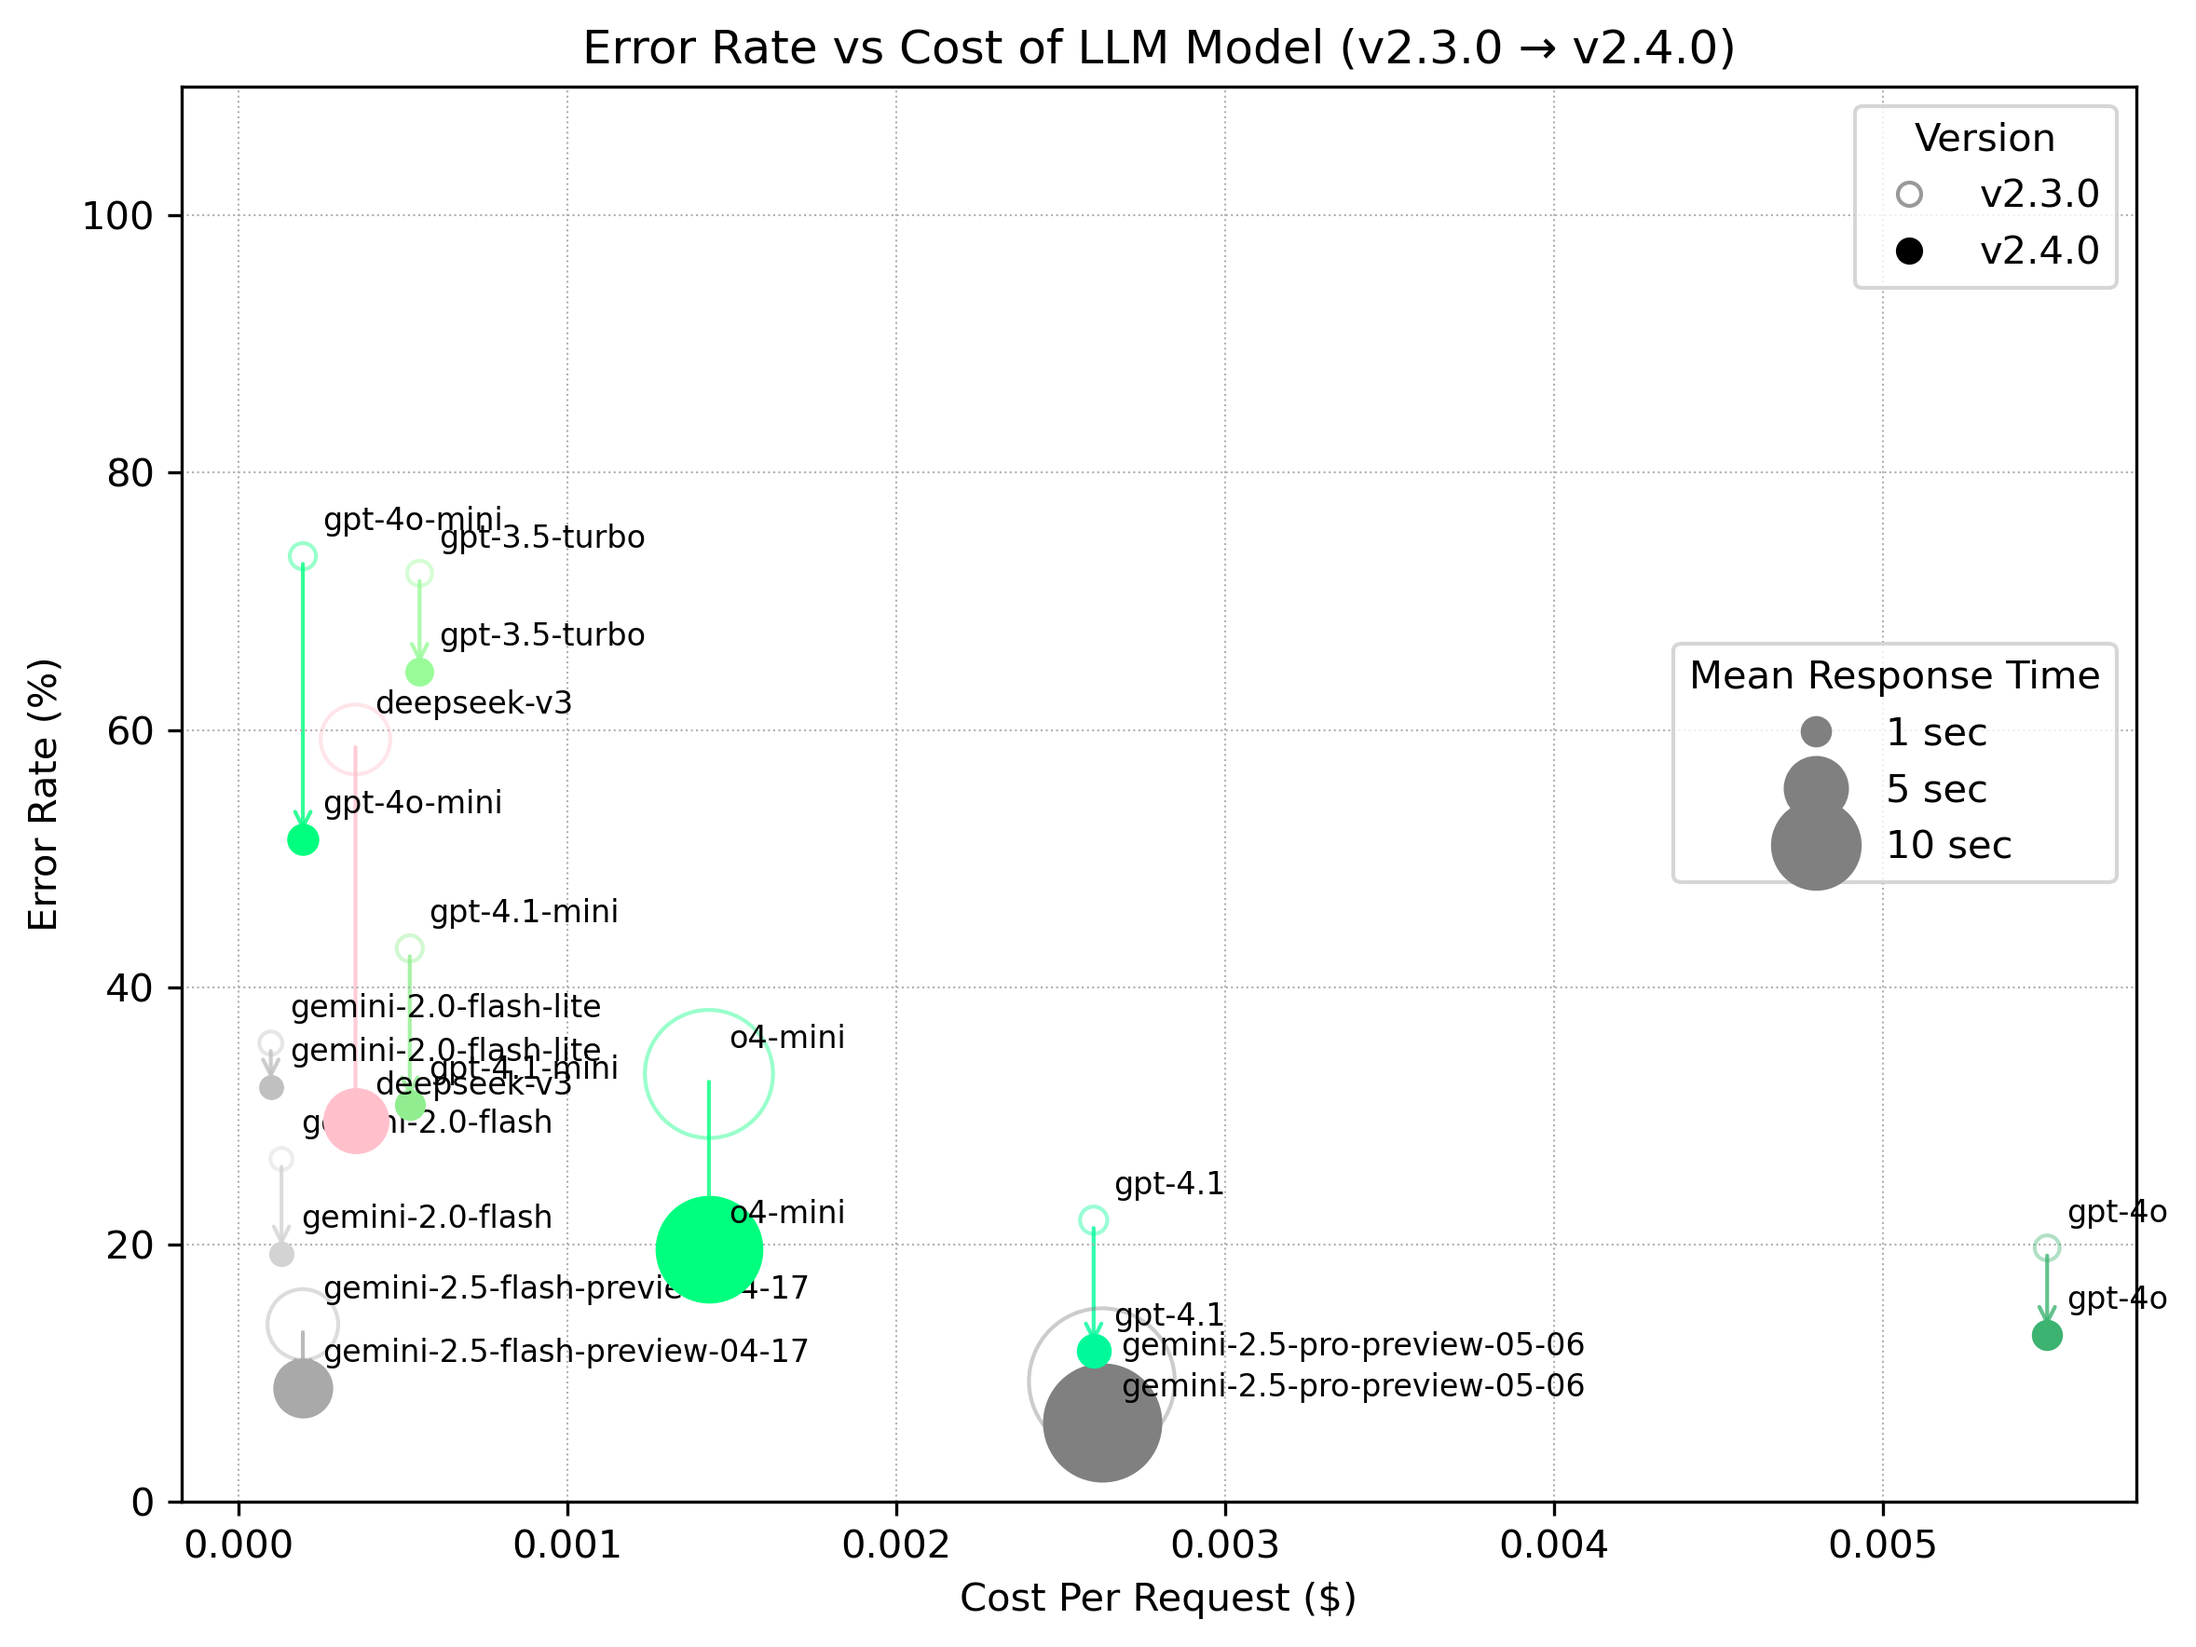
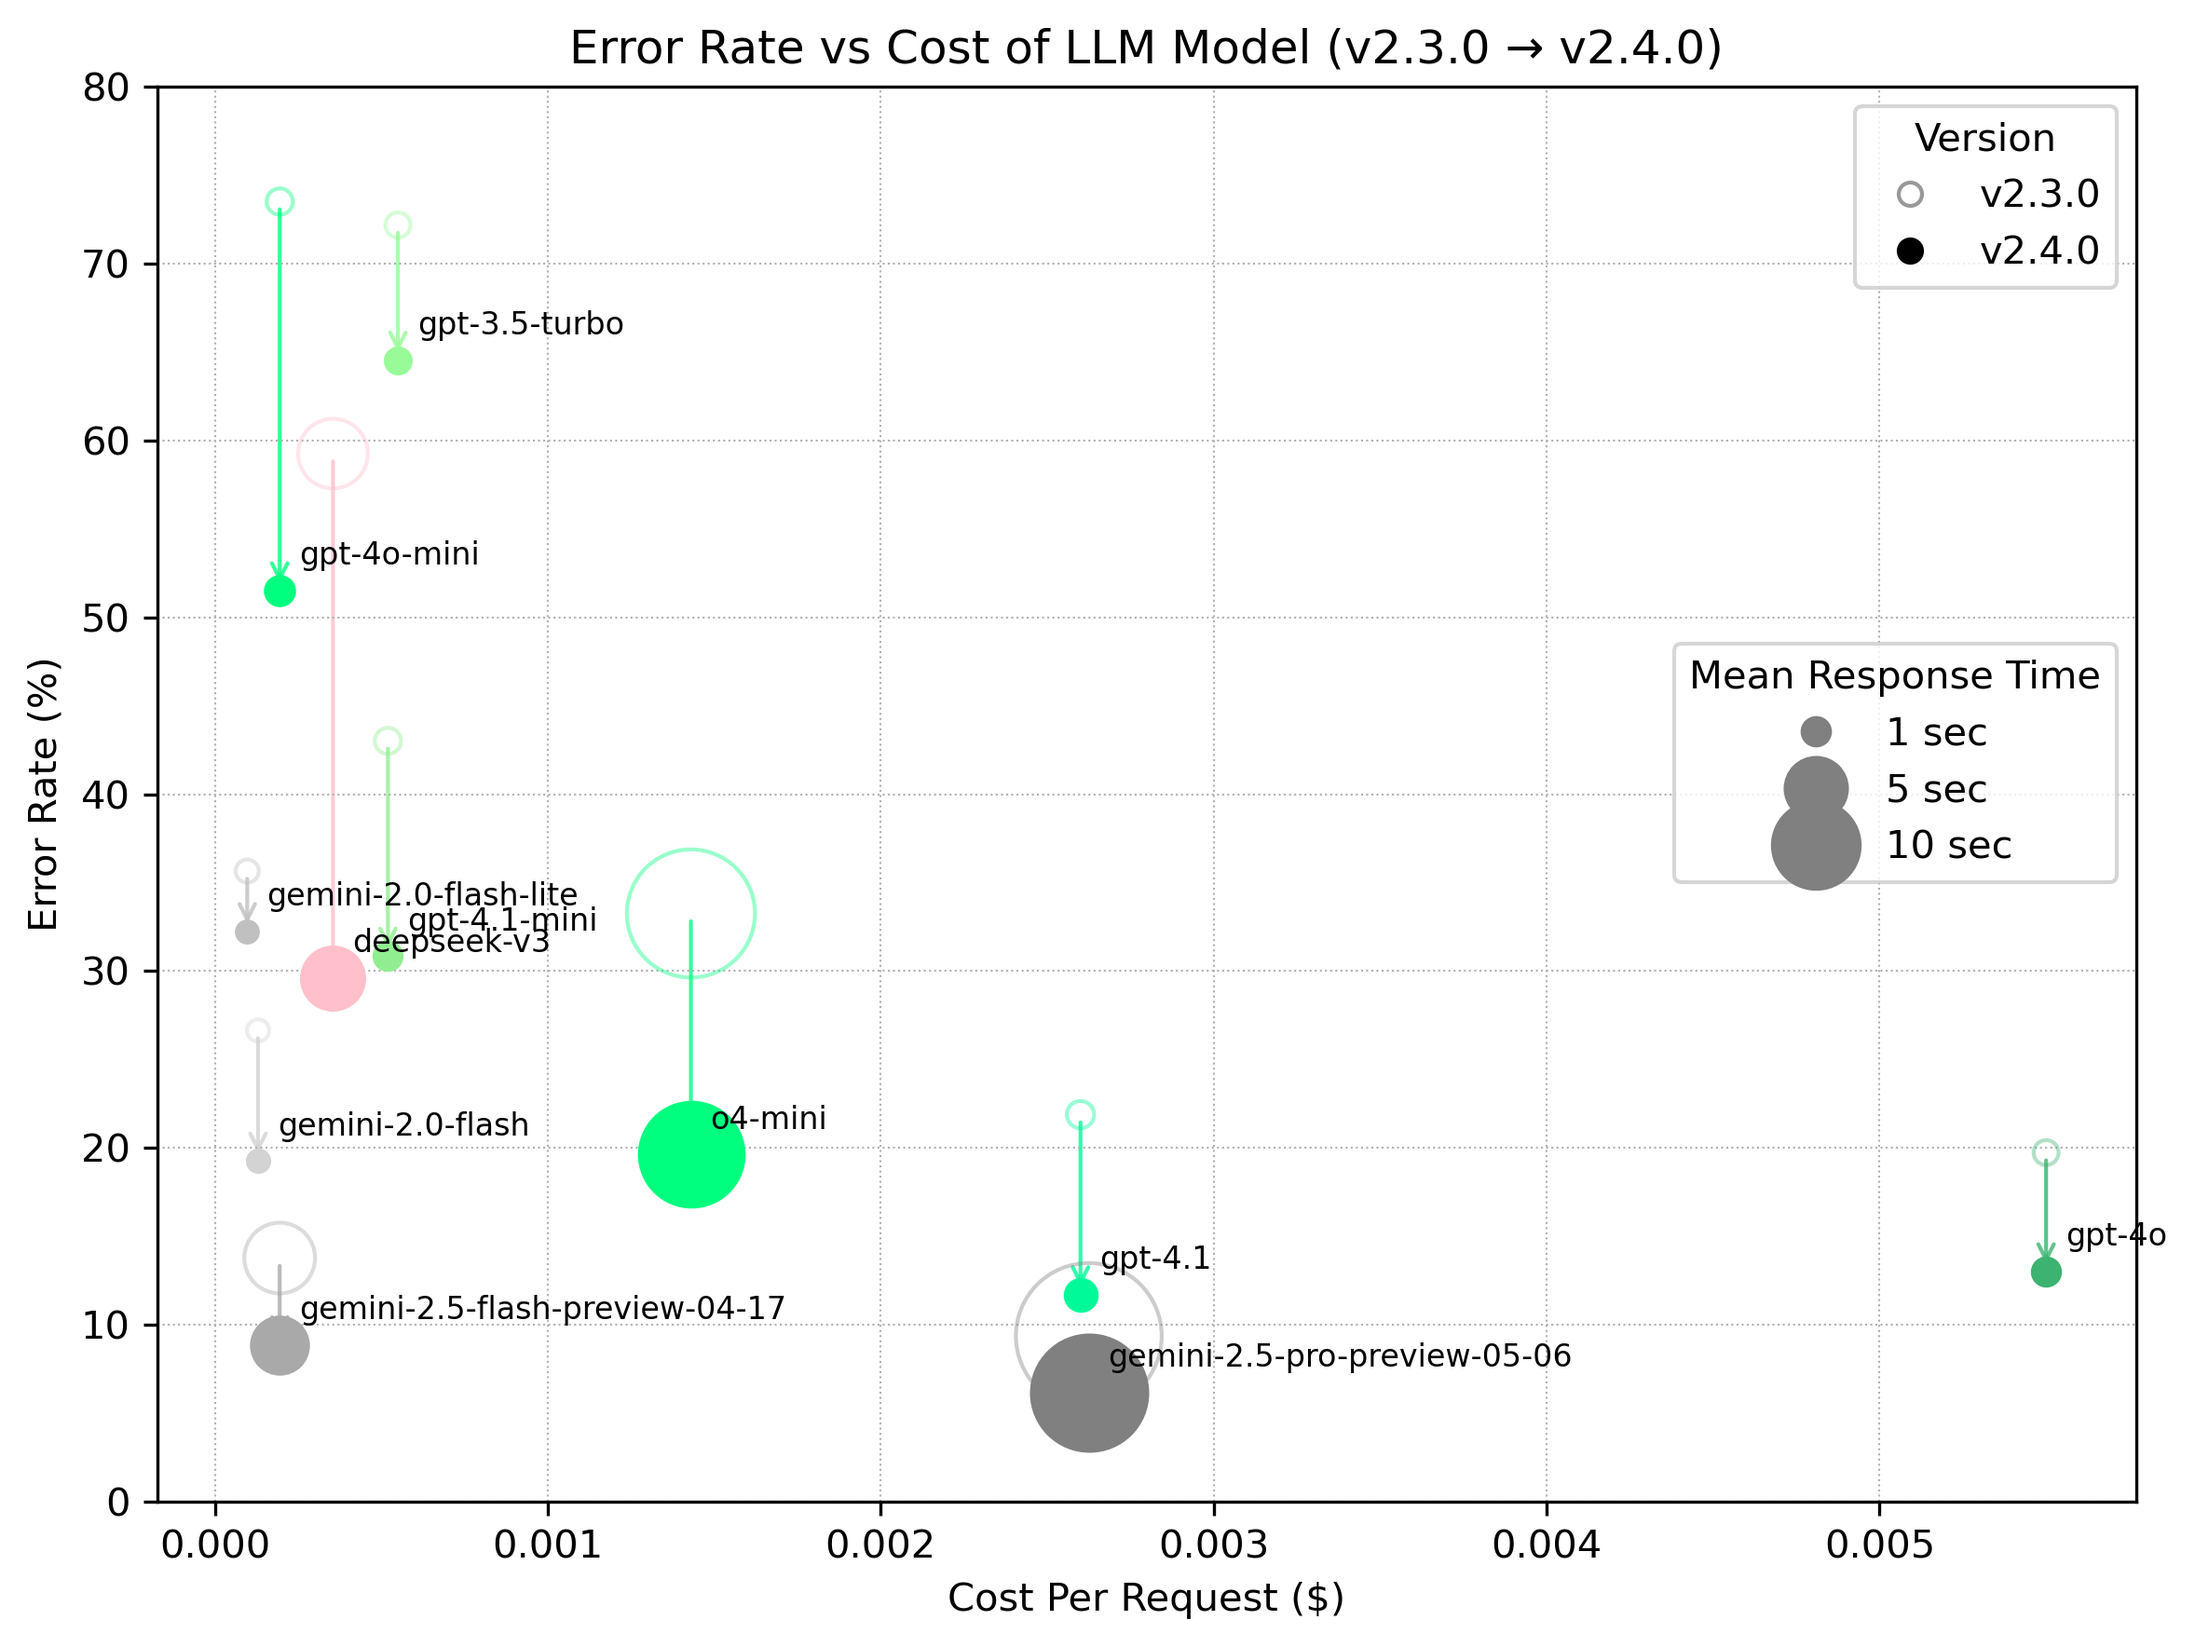
グラフを縦軸８０％までに限定した。

diff --git a/benchmark/plot_errorrate_vs_cost.py b/benchmark/plot_errorrate_vs_cost.py
@@ -110,8 +110,12 @@ def plot_version(
     alpha: float,
     face_filled: bool,
     zorder: int,
+    annotate: bool = True,
 ):
-    """一つのバージョンの散布図を描く"""
+    """一つのバージョンの散布図を描く
+
+    annotate が True のときのみモデル名ラベルを表示する。
+    """
     for model, metrics in data.items():
         cost = MASTER_COST.get(model)
         if cost is None:
@@ -145,17 +149,19 @@ def plot_version(
                 label=version_label if model == next(iter(data)) else None,
                 zorder=zorder,
             )
-        # 各点にモデル名を注釈
-        plt.annotate(
-            model,
-            xy=(cost, cer_pct),
-            xytext=(5, 5),
-            textcoords="offset points",
-            ha="left",
-            va="bottom",
-            clip_on=False,
-            fontsize=8,
-        )
+
+        # モデル名の注釈
+        if annotate:
+            plt.annotate(
+                model,
+                xy=(cost, cer_pct),
+                xytext=(5, 5),
+                textcoords="offset points",
+                ha="left",
+                va="bottom",
+                clip_on=False,
+                fontsize=8,
+            )
 
 
 def draw_improvement_arrows():
@@ -250,11 +256,25 @@ def main():
 
     plt.figure(figsize=(8, 6))
 
-    # v2.3.0 — 薄い枠円
-    plot_version(DATA_V23, "v2.3.0", alpha=0.4, face_filled=False, zorder=2)
+    # v2.3.0 — 薄い枠円（ラベル無し）
+    plot_version(
+        DATA_V23,
+        "v2.3.0",
+        alpha=0.4,
+        face_filled=False,
+        zorder=2,
+        annotate=False,
+    )
 
-    # v2.4.0 — 濃い塗りつぶし円
-    plot_version(DATA_V24, "v2.4.0", alpha=1.0, face_filled=True, zorder=3)
+    # v2.4.0 — 濃い塗りつぶし円（ラベルあり）
+    plot_version(
+        DATA_V24,
+        "v2.4.0",
+        alpha=1.0,
+        face_filled=True,
+        zorder=3,
+        annotate=True,
+    )
 
     # 改善矢印
     draw_improvement_arrows()
@@ -265,8 +285,8 @@ def main():
     plt.title("Error Rate vs Cost of LLM Model (v2.3.0 → v2.4.0)")
     plt.grid(True, which="both", linestyle=":", linewidth=0.5)
 
-    # Y 軸 0–110 %
-    plt.ylim(0, 110)
+    # Y 軸 0–80 %
+    plt.ylim(0, 80)
     # 余白 (x 軸)
     plt.margins(x=0.05)
 
